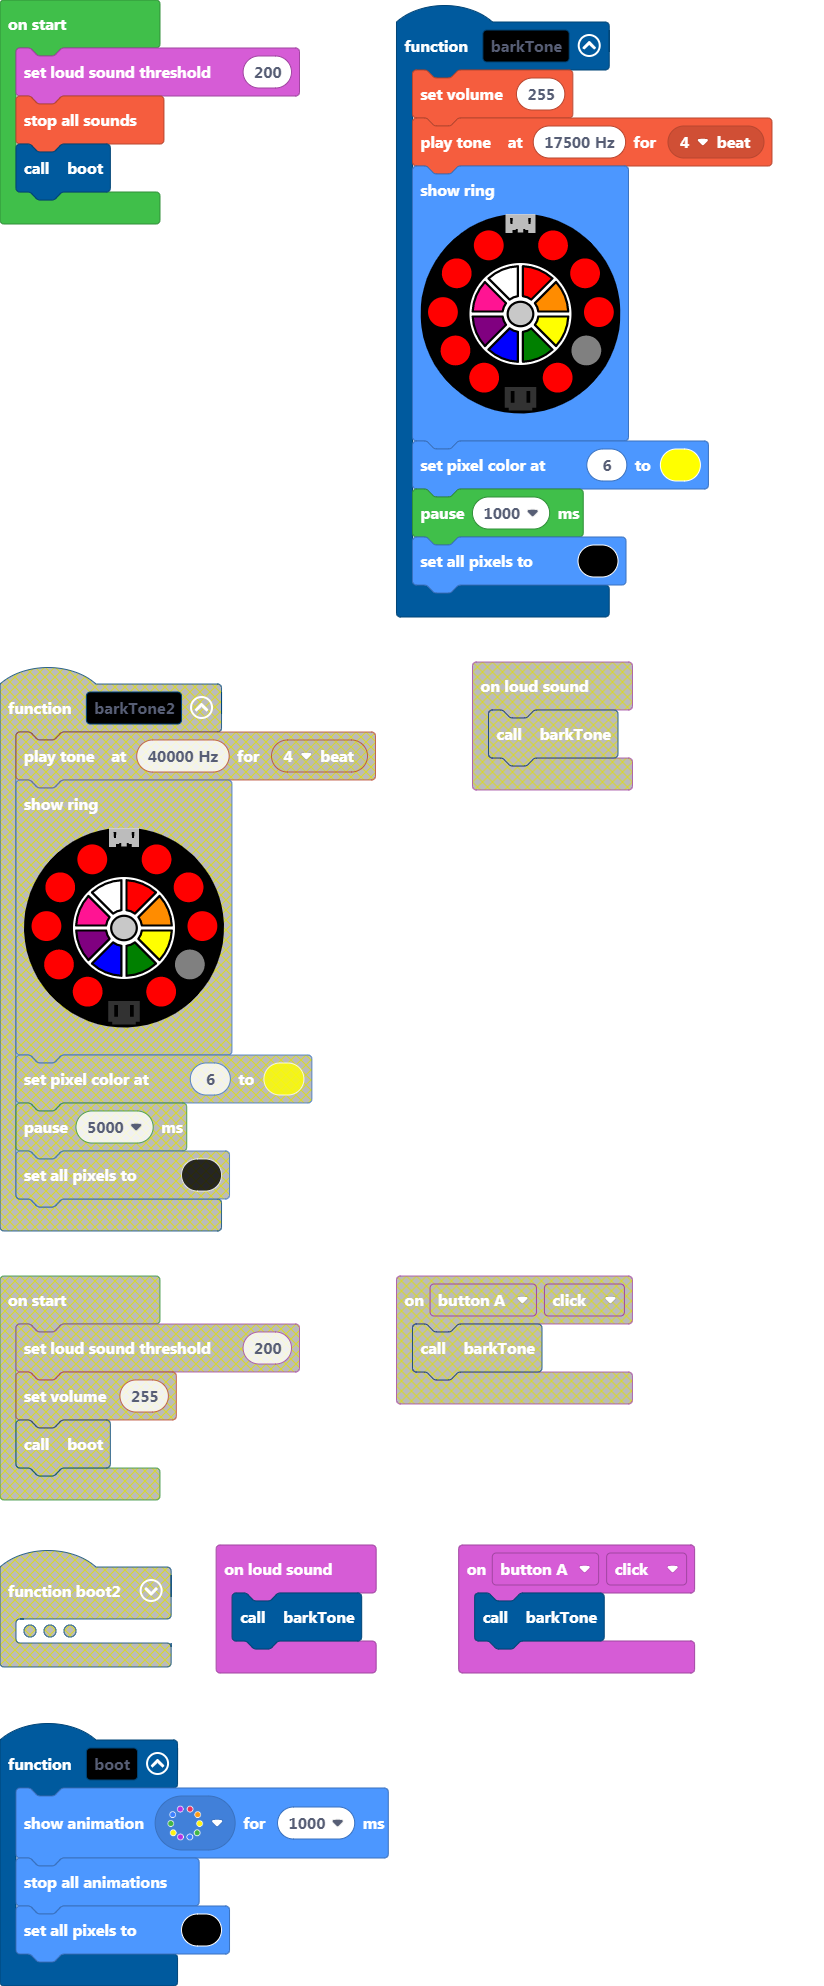
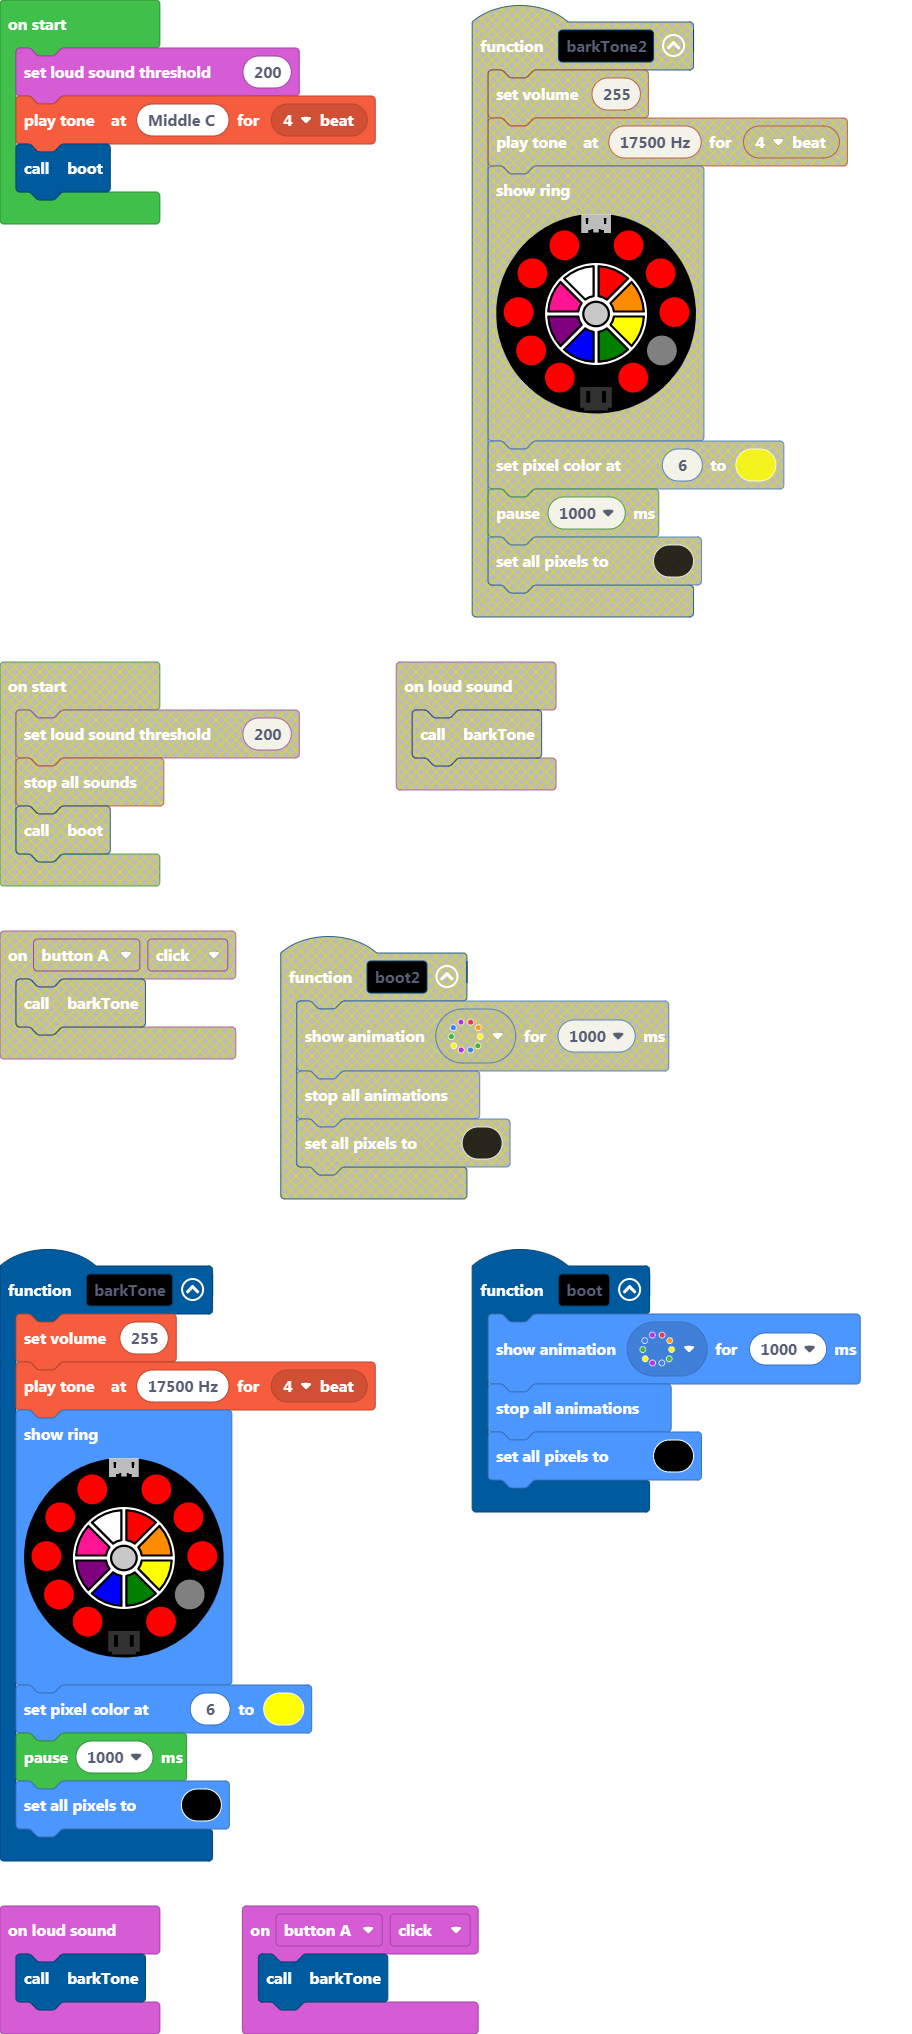
Update main.blocks, main.ts, main.py

diff --git a/main.ts b/main.ts
@@ -20,5 +20,5 @@ input.buttonA.onEvent(ButtonEvent.Click, function () {
     barkTone()
 })
 input.setLoudSoundThreshold(200)
-music.stopAllSounds()
+music.playTone(262, music.beat(BeatFraction.Breve))
 boot()

diff --git a/main.py b/main.py
@@ -10,10 +10,6 @@ def on_loud_sound():
     barkTone()
 input.on_loud_sound(on_loud_sound)
 
-def on_switch_moved_right():
-    pass
-input.on_switch_moved(SwitchDirection.RIGHT, on_switch_moved_right)
-
 def boot():
     light.show_animation(light.rainbow_animation, 1000)
     light.stop_all_animations()
@@ -24,4 +20,5 @@ def on_button_a_click():
 input.button_a.on_event(ButtonEvent.CLICK, on_button_a_click)
 
 input.set_loud_sound_threshold(200)
+music.play_tone(262, music.beat(BeatFraction.BREVE))
 boot()
